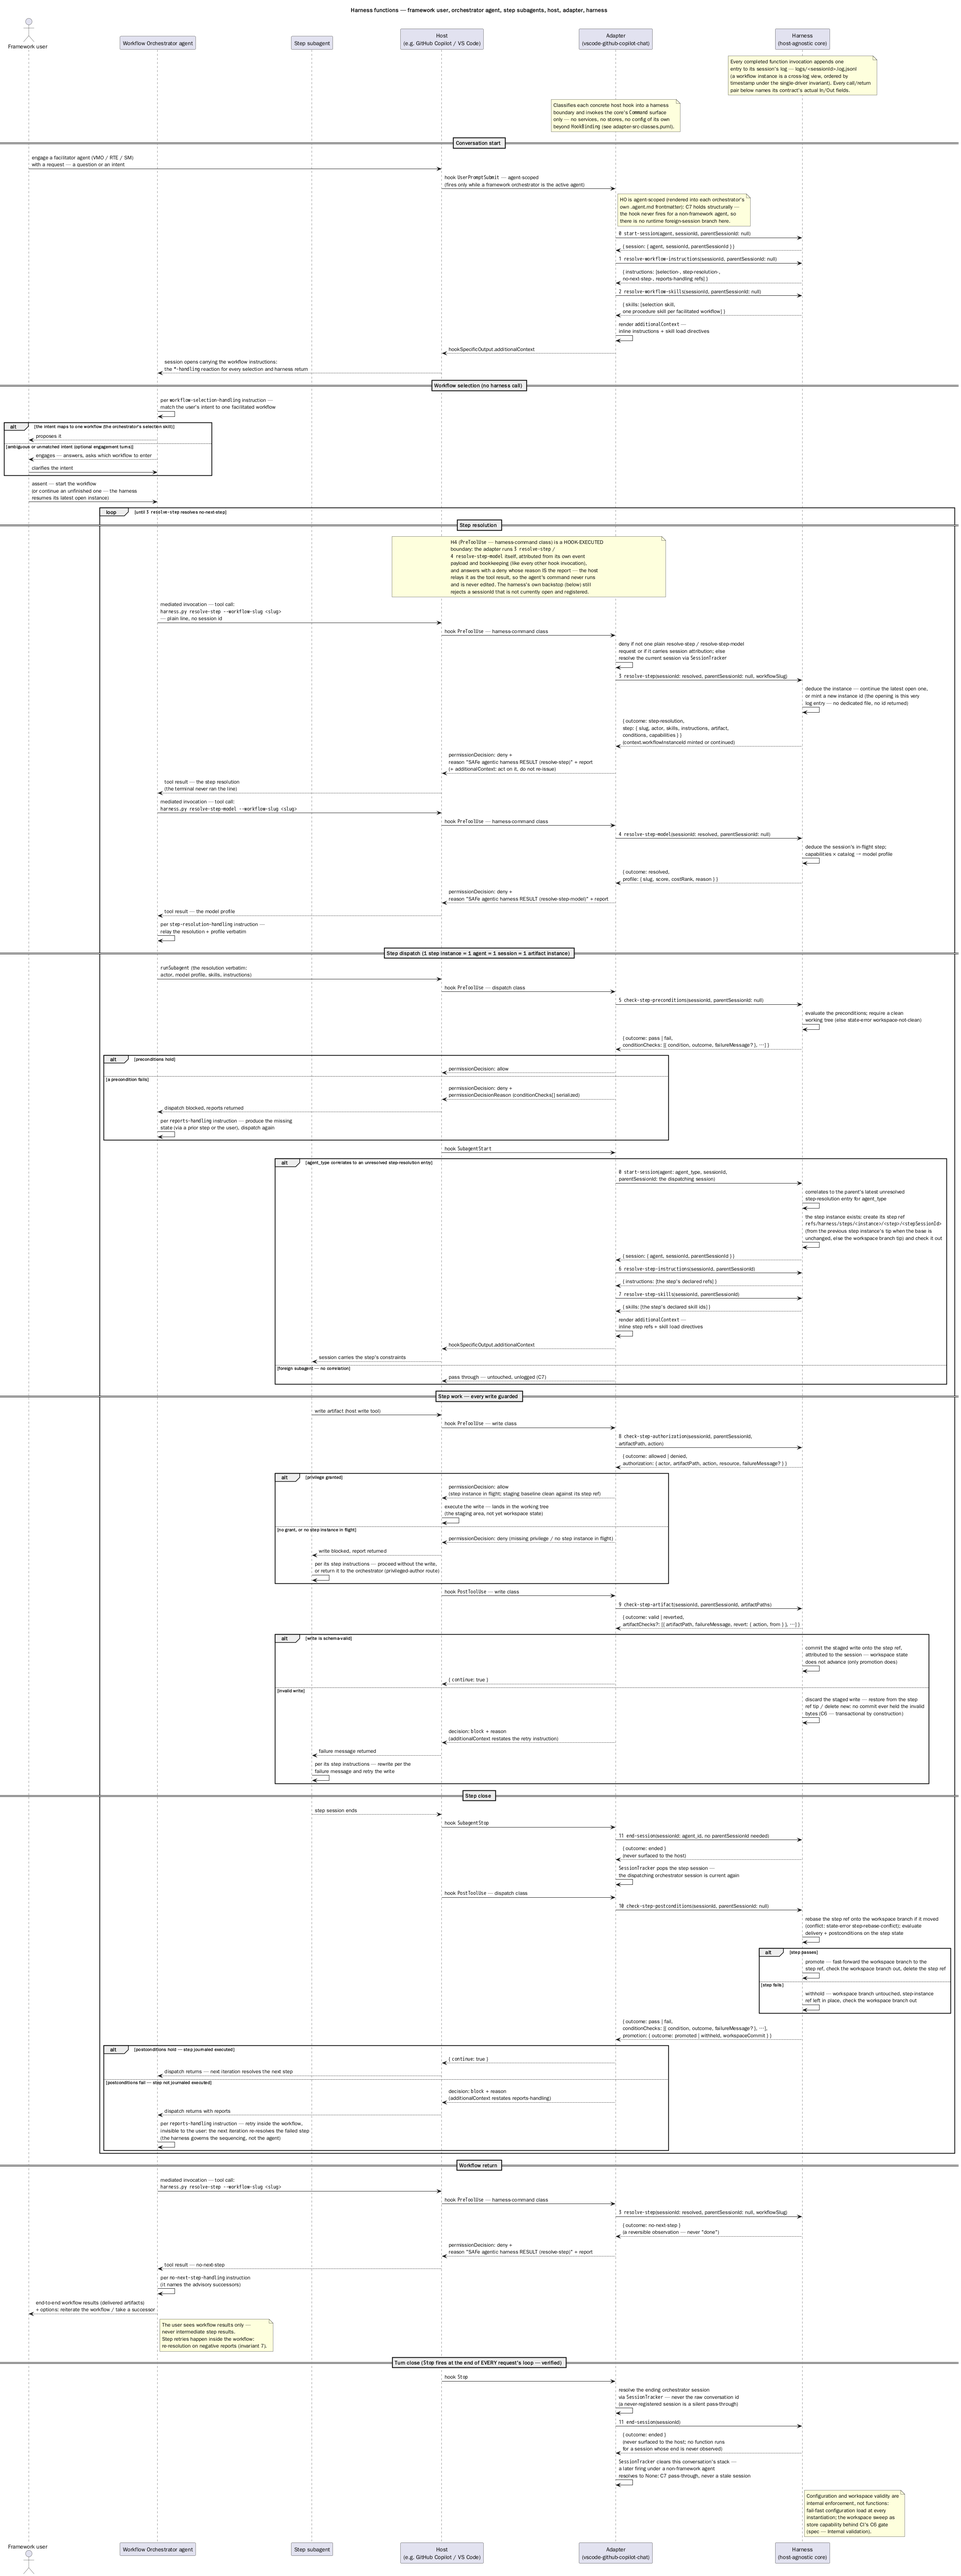
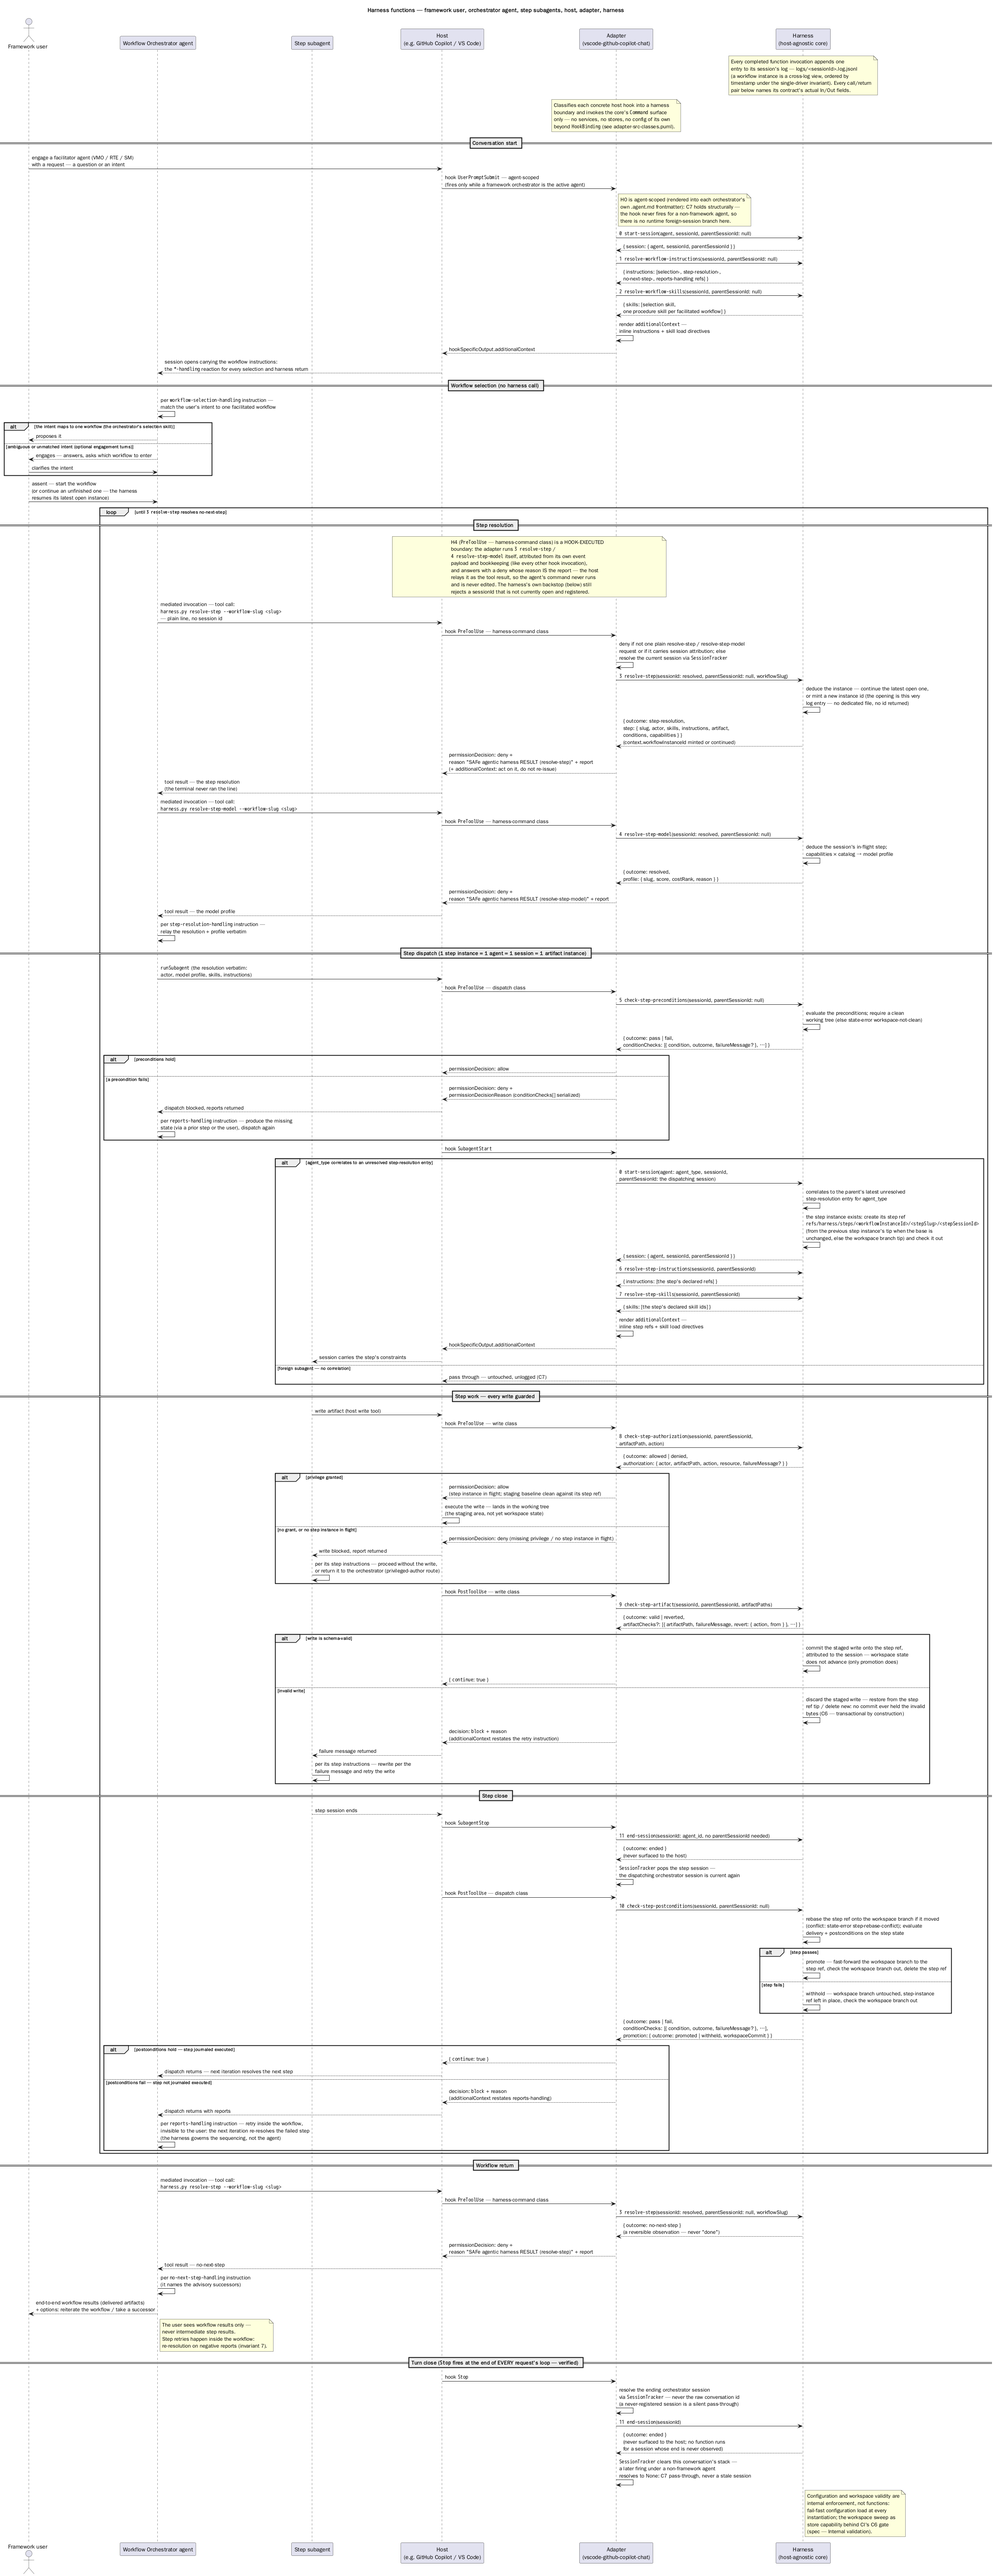
spec: never write a bare "instance"; state session cardinalities
Every new or edited mention now says workflow instance, step instance,
or artifact instance. Terminology states the cardinalities side by
side: a workflow instance spans its orchestrator sessions plus one step
session per step instance; a step instance has exactly one session and
a retry is a new step instance.

diff --git a/def/core/spec.md b/def/core/spec.md
@@ -80,7 +80,7 @@ and implementation parts prescribe its realization.
   authors new content. Artifacts attach
   to **steps**, never to workflows: each step instance delivers exactly one artifact
   instance — its step's `artifact` field names it by schema slug (the artifact kind) or URI
-  (a specific instance) — and a workflow's deliverables in workspace state are simply the
+  (a specific artifact instance) — and a workflow's deliverables in workspace state are simply the
   union of its steps' artifacts, each from the step's passing step instance (in this
   framework: epics, features, stories, …).
 - **Log** — the harness's record: the append-only JSONL file of one session
@@ -101,7 +101,7 @@ and implementation parts prescribe its realization.
   A session serves **at most one workflow instance**: an orchestrator session drives at most
   one (one workflow end = one return to the user, which ends the session; engagement and
   selection sessions before assent drive none), and a step session IS its step instance
-  (1 step instance = 1 agent = 1 session = 1 artifact instance). The converse does not hold — a half-finished instance
+  (1 step instance = 1 agent = 1 session = 1 artifact instance). The converse does not hold — a half-finished workflow instance
   legitimately continues under a LATER orchestrator session (mid-instance returns; function
   3's latest-open-instance deduction and the single-driver invariant carry the handoff) — so
   an instance's view spans sessions, never a session spanning instances: no session's log
@@ -134,13 +134,13 @@ and implementation parts prescribe its realization.
   own — it is identified by its minted id and recognized by its content: the artifacts its
   steps have journaled delivered. A workflow delivers MANY artifacts — in workspace state,
   one per step: its passing step instance's, the only one promoted — so no single artifact is
-  attached to the instance; artifacts attach to steps. It has its own
-  minted id because it can outlive its sessions: 1 instance ↔ 1..N orchestrator sessions in
-  sequence (a half-finished instance resumes under a later session), while 1 orchestrator
-  session drives at most 1 instance (function 3, invariant 9).
+  attached to the workflow instance; artifacts attach to steps. It has its own minted id
+  because it can outlive its sessions: 1 workflow instance ↔ 1..N orchestrator sessions in
+  sequence (a half-finished workflow instance resumes under a later session), while 1
+  orchestrator session drives at most 1 workflow instance (function 3, invariant 9).
 - **Step** — a configured unit of work, executed as one agent turn per step instance.
   **1 step instance = 1 agent = 1 session = 1 artifact instance**: the session lifecycle IS
-  the step instance's lifecycle, and each step instance delivers exactly one instance of the
+  the step instance's lifecycle, and each step instance delivers exactly one artifact instance of the
   artifact kind its step's `artifact` declares. A step may have several step instances in one
   workflow instance (retries), but only its passing step instance is promoted — so in
   workspace state each step delivers exactly one artifact instance, the passing one's. Step
@@ -158,7 +158,7 @@ and implementation parts prescribe its realization.
   registers the step session correlated to its resolution — the step instance exists only
   from then on — and checks it out in the working tree for the step instance's duration. It
   is created from the previous step instance's ref tip (a retry of the same step in the same
-  workflow instance) when the workspace branch has not moved since that instance's base, so
+  workflow instance) when the workspace branch has not moved since that step instance's base, so
   the retry continues the failed work; otherwise from the workspace branch tip. Nothing is
   renamed or reused: a failed step instance's ref simply remains. It is local-only, never
   synced, and never workspace state. The **step state** is workspace state plus the step
@@ -171,12 +171,16 @@ and implementation parts prescribe its realization.
 **Workflow** and **Step** are configuration — definitions. **Workflow instance** and **Step
 instance** are executions of them. **Sessions** are the agent conversations that carry
 executions; they are the unit of attribution and of logging (every entry and every commit
-names its `sessionId`). A workflow instance needs its own minted id because it outlives its
-sessions; a step instance does not, because it is exactly one session.
+names its `sessionId`). Side by side, the cardinalities:
+
+- a **workflow instance** spans several sessions: its orchestrator sessions, one after
+  another, plus one step session per step instance — so it needs its own minted id;
+- a **step instance** has exactly one session, and a retry is a new step instance — so its
+  identity is that session's id, and nothing is minted.
 
 | Definition (configuration) | Execution | Carried by | Cardinality |
 | --- | --- | --- | --- |
-| Workflow — `workflowSlug` | Workflow instance — `workflowInstanceId`, minted by function 3 | Orchestrator sessions, in sequence | 1 workflow instance ↔ 1..N orchestrator sessions (resume); 1 orchestrator session → at most 1 workflow instance (function 3, invariant 9) |
+| Workflow — `workflowSlug` | Workflow instance — `workflowInstanceId`, minted by function 3 | Its orchestrator sessions, one after another, plus one step session per step instance | 1 workflow instance ↔ 1..N orchestrator sessions (resume); 1 orchestrator session → at most 1 workflow instance (function 3, invariant 9) |
 | Step — `stepSlug`, unique within its workflow | Step instance — its step session's `sessionId`, nothing minted | Its one step session | 1 step instance ↔ 1 step session (function 0, invariant 5); 1 step → 0..N step instances per workflow instance (retries) |
 
 The identity chain runs: `workflowInstanceId` → `stepSlug` → step instance (= the step
@@ -316,7 +320,7 @@ statuses; which condition produces which status is fixed by kind, never per-func
 | Status | Assigned to | Journaled |
 | --- | --- | --- |
 | `inquiry-error` | Everything wrong with the inquiry itself, distinguished by `error.code`: it fails its input contract or domain validation (code `invalid-inquiry` — non-slug `sessionId`, missing `agent`; `unknown-workflow`), or it is illegitimate at its surface (code `session-unregistered` — the mediated backstop; `not-facilitator`) | Yes when the session is attributable and open; contract-validation failures are pre-attribution and unjournalable (rule 4) |
-| `state-error` | Persisted state contradicts an otherwise legitimate inquiry: the target session's log carries an ending entry (C8 — code `session-ended`), a step is already in flight (`step-in-flight`), the orchestrator session already drives another workflow's instance (`session-instance-bound`), a step resolution already registered its step session (`step-session-bound`), a step correlation is missing or of the wrong kind (`step-correlation-missing`, `session-kind-mismatch`), a re-registration names a different agent (`session-conflict`), a condition evaluation fails at runtime (`condition-evaluation-failed`), a path resolves to no artifact schema at the commit gate (`artifact-schema-unresolved`), the working tree holds uncommitted changes when a step is dispatched (`workspace-not-clean`), a step ref cannot be rebased onto a moved workspace branch (`step-rebase-conflict`) | Yes, except the C8 refusal (rule 3) and `step-session-bound` (rule 4) |
+| `state-error` | Persisted state contradicts an otherwise legitimate inquiry: the target session's log carries an ending entry (C8 — code `session-ended`), a step is already in flight (`step-in-flight`), the orchestrator session already drives a workflow instance of another workflow (`session-instance-bound`), a step resolution already registered its step session (`step-session-bound`), a step correlation is missing or of the wrong kind (`step-correlation-missing`, `session-kind-mismatch`), a re-registration names a different agent (`session-conflict`), a condition evaluation fails at runtime (`condition-evaluation-failed`), a path resolves to no artifact schema at the commit gate (`artifact-schema-unresolved`), the working tree holds uncommitted changes when a step is dispatched (`workspace-not-clean`), a step ref cannot be rebased onto a moved workspace branch (`step-rebase-conflict`) | Yes, except the C8 refusal (rule 3) and `step-session-bound` (rule 4) |
 | `configuration-error` | Configuration invalid at use time — residual only: the fail-fast load ([Internal validation](#internal-validation--not-functions)) owns configuration validity, so reaching this status at runtime indicates config mutated after load | Yes |
 | `system-error` | The environment fails: Git index lock, disk full, an unreadable log (code `log-unreadable` — a log file that cannot be opened, retryable, or whose bytes are not JSONL log entries, not retryable; the invoking session's own log or any log a cross-log scan reads), log creation or append failing (`log-creation-failed`, `log-append-failed` — the report is still returned; the entry is lost — best-effort; an error report whose own entry is lost keeps its primary error) | Yes, when the log is writable |
 
@@ -495,7 +499,7 @@ Contract schemas — [contracts/api/start-session.input.schema.json](../../contr
    session that function 10 reads delivery from (function 10, invariant 5).
 6. A step session's registration creates its **step instance**'s step ref and checks it out:
    from the ref tip of the step's previous step instance in the same workflow instance when
-   the workspace branch has not moved since that instance's base — the retry continues the
+   the workspace branch has not moved since that step instance's base — the retry continues the
    failed work — otherwise from the workspace branch tip. Nothing is renamed or reused; a
    failed step instance's ref remains. A replayed registration (invariant 4) creates no second
    ref. The working tree's cleanliness is function 5's check, made at step-starting where it
@@ -1408,7 +1412,7 @@ Contract schemas — [contracts/api/check-step-artifact.input.schema.json](../..
 
 Did this step deliver? The same condition machinery as function 5, applied to the step's
 declared postconditions over the **step state** — and the producer of the step outcome that
-drives the whole instance: function 3's cursor reads nothing else. It is also the acceptance
+drives the whole workflow instance: function 3's cursor reads nothing else. It is also the acceptance
 point: a passing step instance is **promoted** — its step ref fast-forwarded into workspace
 state — and a failing one is withheld, so workspace state only ever holds the output of step
 instances that passed here.
@@ -1430,7 +1434,7 @@ instances that passed here.
   its own `artifactDelivery` (invariant 5), journaled in the same entry: the step's
   `artifact` kind, the delivered instance's `artifactPath` (or `null`), the delivery
   `outcome` (`pass` / `fail`), and on failure a `failureMessage` naming the step, the kind,
-  and why — zero instances, or more than one. A failed delivery fails the aggregate. The
+  and why — zero artifact instances, or more than one. A failed delivery fails the aggregate. The
   report also carries its own `promotion` (invariant 6), journaled in the same entry:
   `{outcome: promoted | withheld, workspaceCommit}` — whether the step ref was promoted, and
   the workspace branch tip the invocation leaves (the evaluated step state's commit when
@@ -2285,7 +2289,7 @@ new path). No commit ever holds invalid bytes — transactional by construction.
 **3. The step instance is the unit of acceptance.** Each step instance works on its own
 **step ref** (`refs/harness/steps/<workflowInstanceId>/<stepSlug>/<stepSessionId>`), created
 and checked out by function 0 when it registers the step session — from the previous step
-instance's ref tip when the workspace branch has not moved since that instance's base, else
+instance's ref tip when the workspace branch has not moved since that step instance's base, else
 from the workspace branch tip — local-only and never synced. Function 10 evaluates the step
 state — workspace state plus the step instance's commits — and on pass **promotes** it: the
 workspace branch fast-forwards to the step ref (after a rebase when a foreign commit moved
@@ -2318,14 +2322,15 @@ commit gate and read directly from the working tree — and, excluded from Git, 
 every step-ref checkout (see [Logging](#logging)). The commit gate governs exactly the
 agent-authored plane — artifacts — and nothing else.
 
-**Future work, not adopted.** Workflow-level (instance) branches — one branch per workflow
+**Future work, not adopted.** Workflow-instance branches — one branch per workflow
 instance, merged at its end — are deliberately not adopted: lifecycle visibility belongs to
-the methodology's artifact statuses (C4), not to the harness's Git plane; instances can stay
-open indefinitely (function 3, invariant 8), so their output would never land; and artifacts
-shared across instances would conflict. They are future work tied to two current non-goals —
-concurrent instances (function 3, invariant 9) and cross-machine mid-instance handoff (see
-[Logging](#logging)) — as is giving each step instance its own Git worktree, so that concurrent steps
-never share one working tree.
+the methodology's artifact statuses (C4), not to the harness's Git plane; workflow instances
+can stay open indefinitely (function 3, invariant 8), so their output would never land; and
+artifacts shared across workflow instances would conflict. They are future work tied to two
+current non-goals — concurrent workflow instances (function 3, invariant 9) and
+cross-machine handoff in mid-workflow-instance (see [Logging](#logging)) — as is giving each
+step instance its own Git worktree, so that concurrent step instances never share one
+working tree.
 
 ### Logging
 
